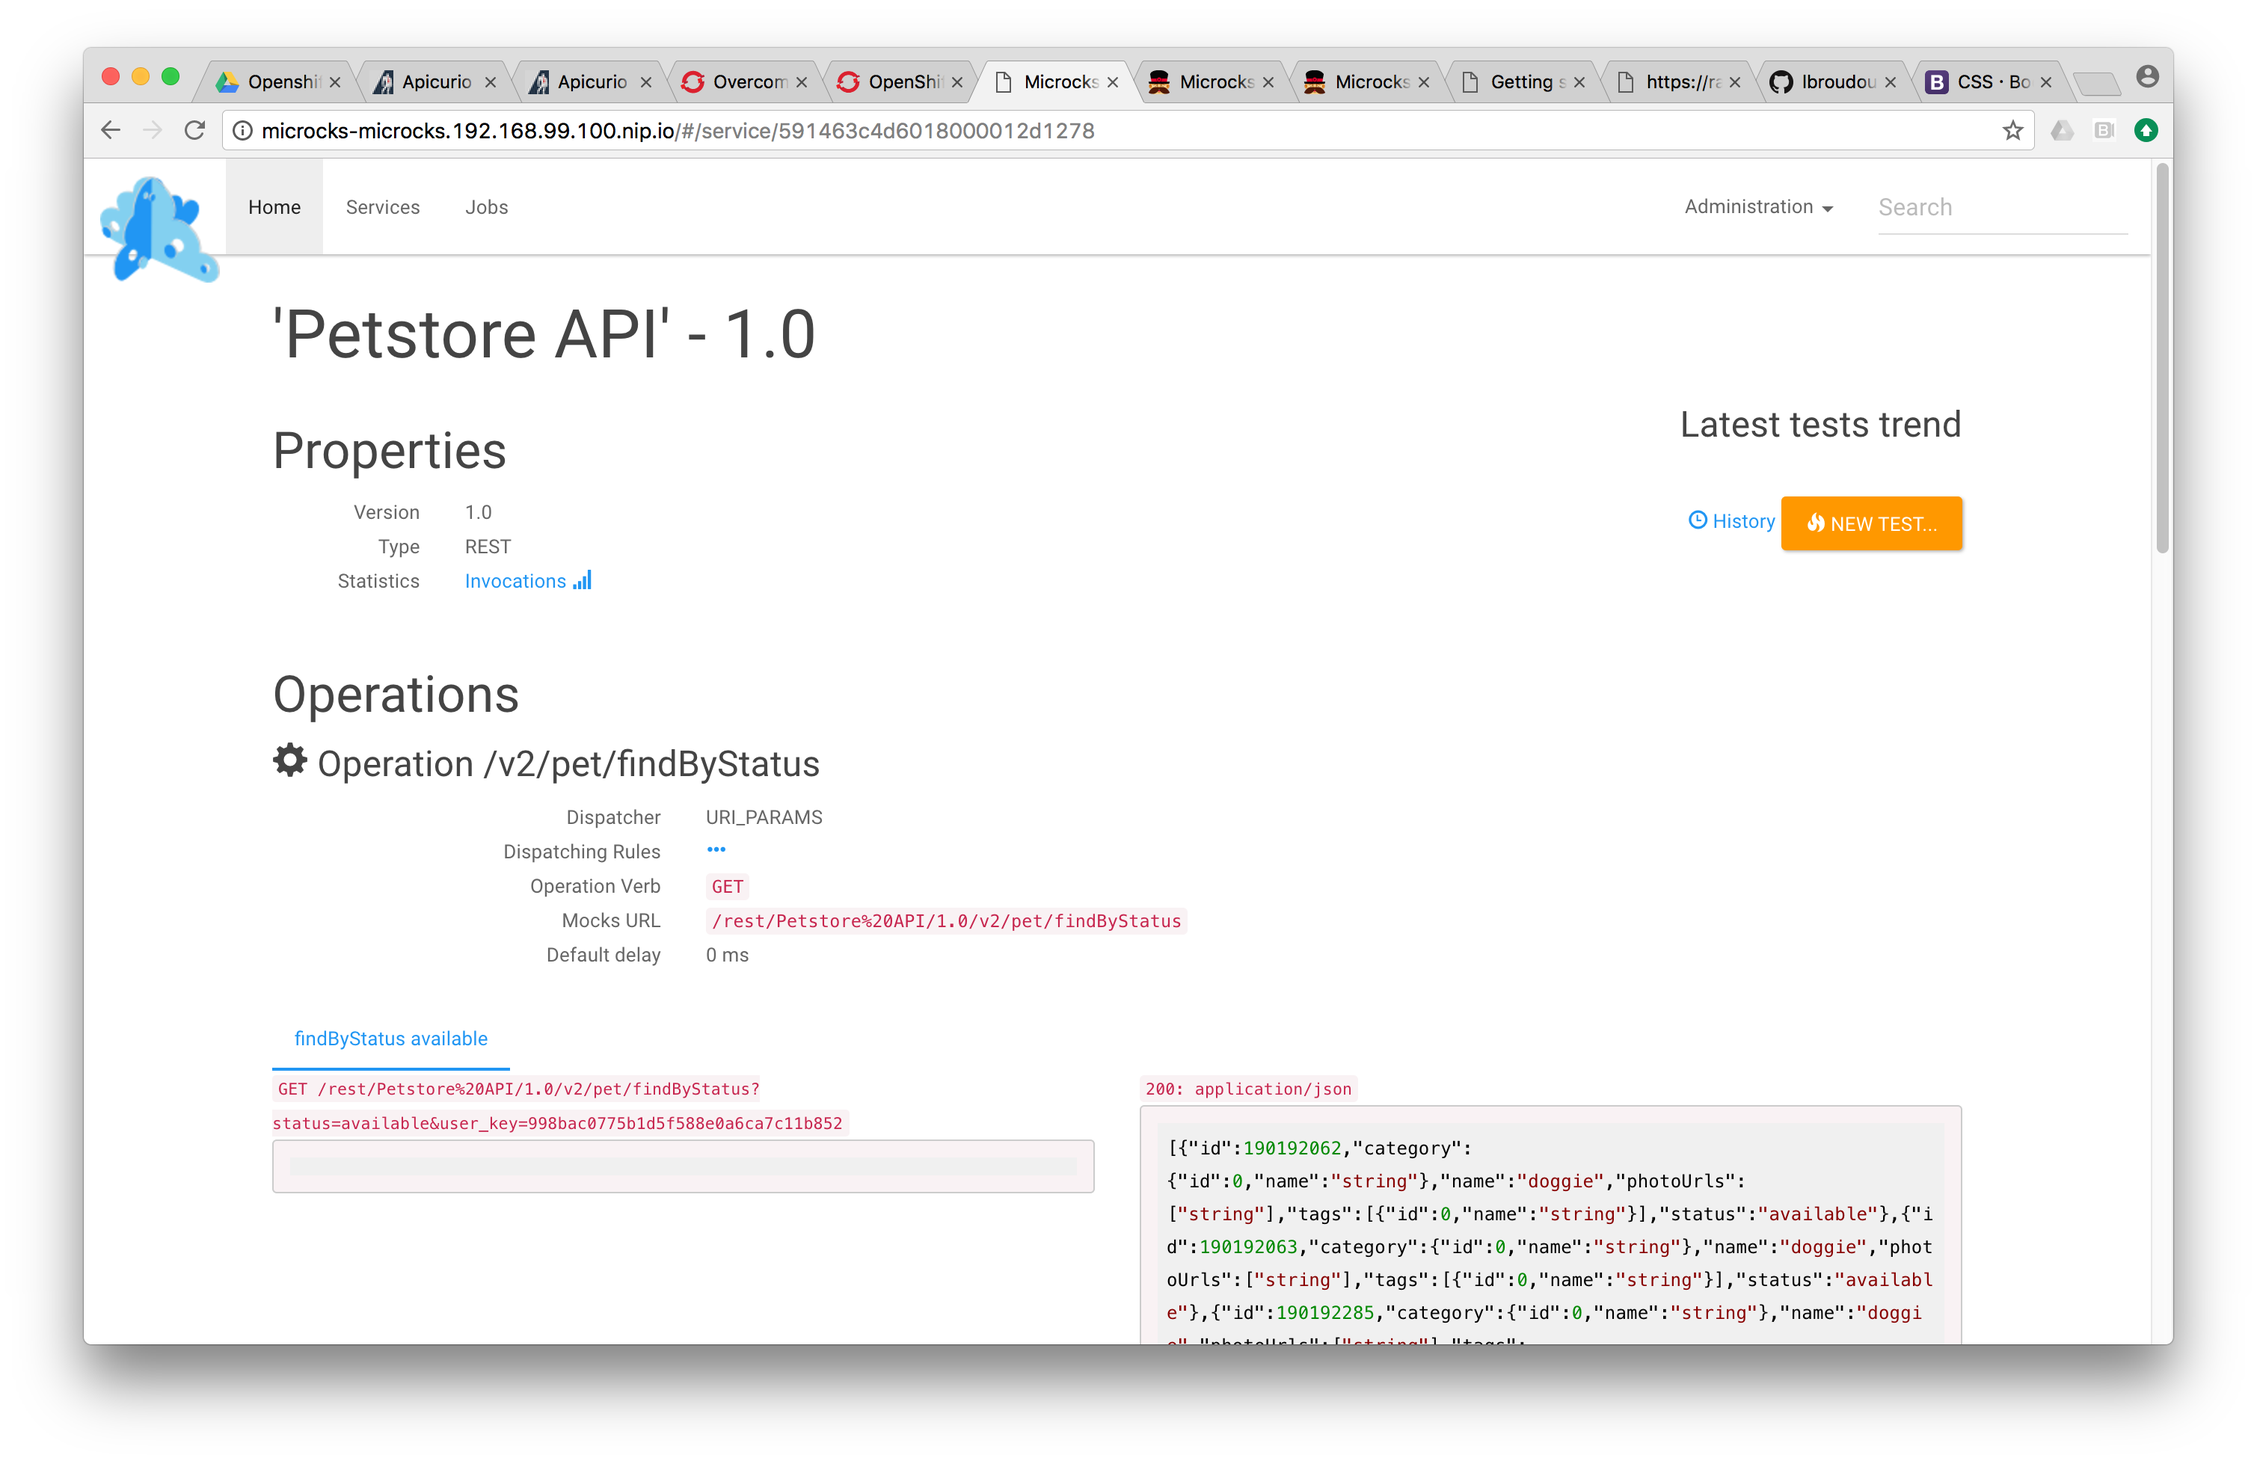
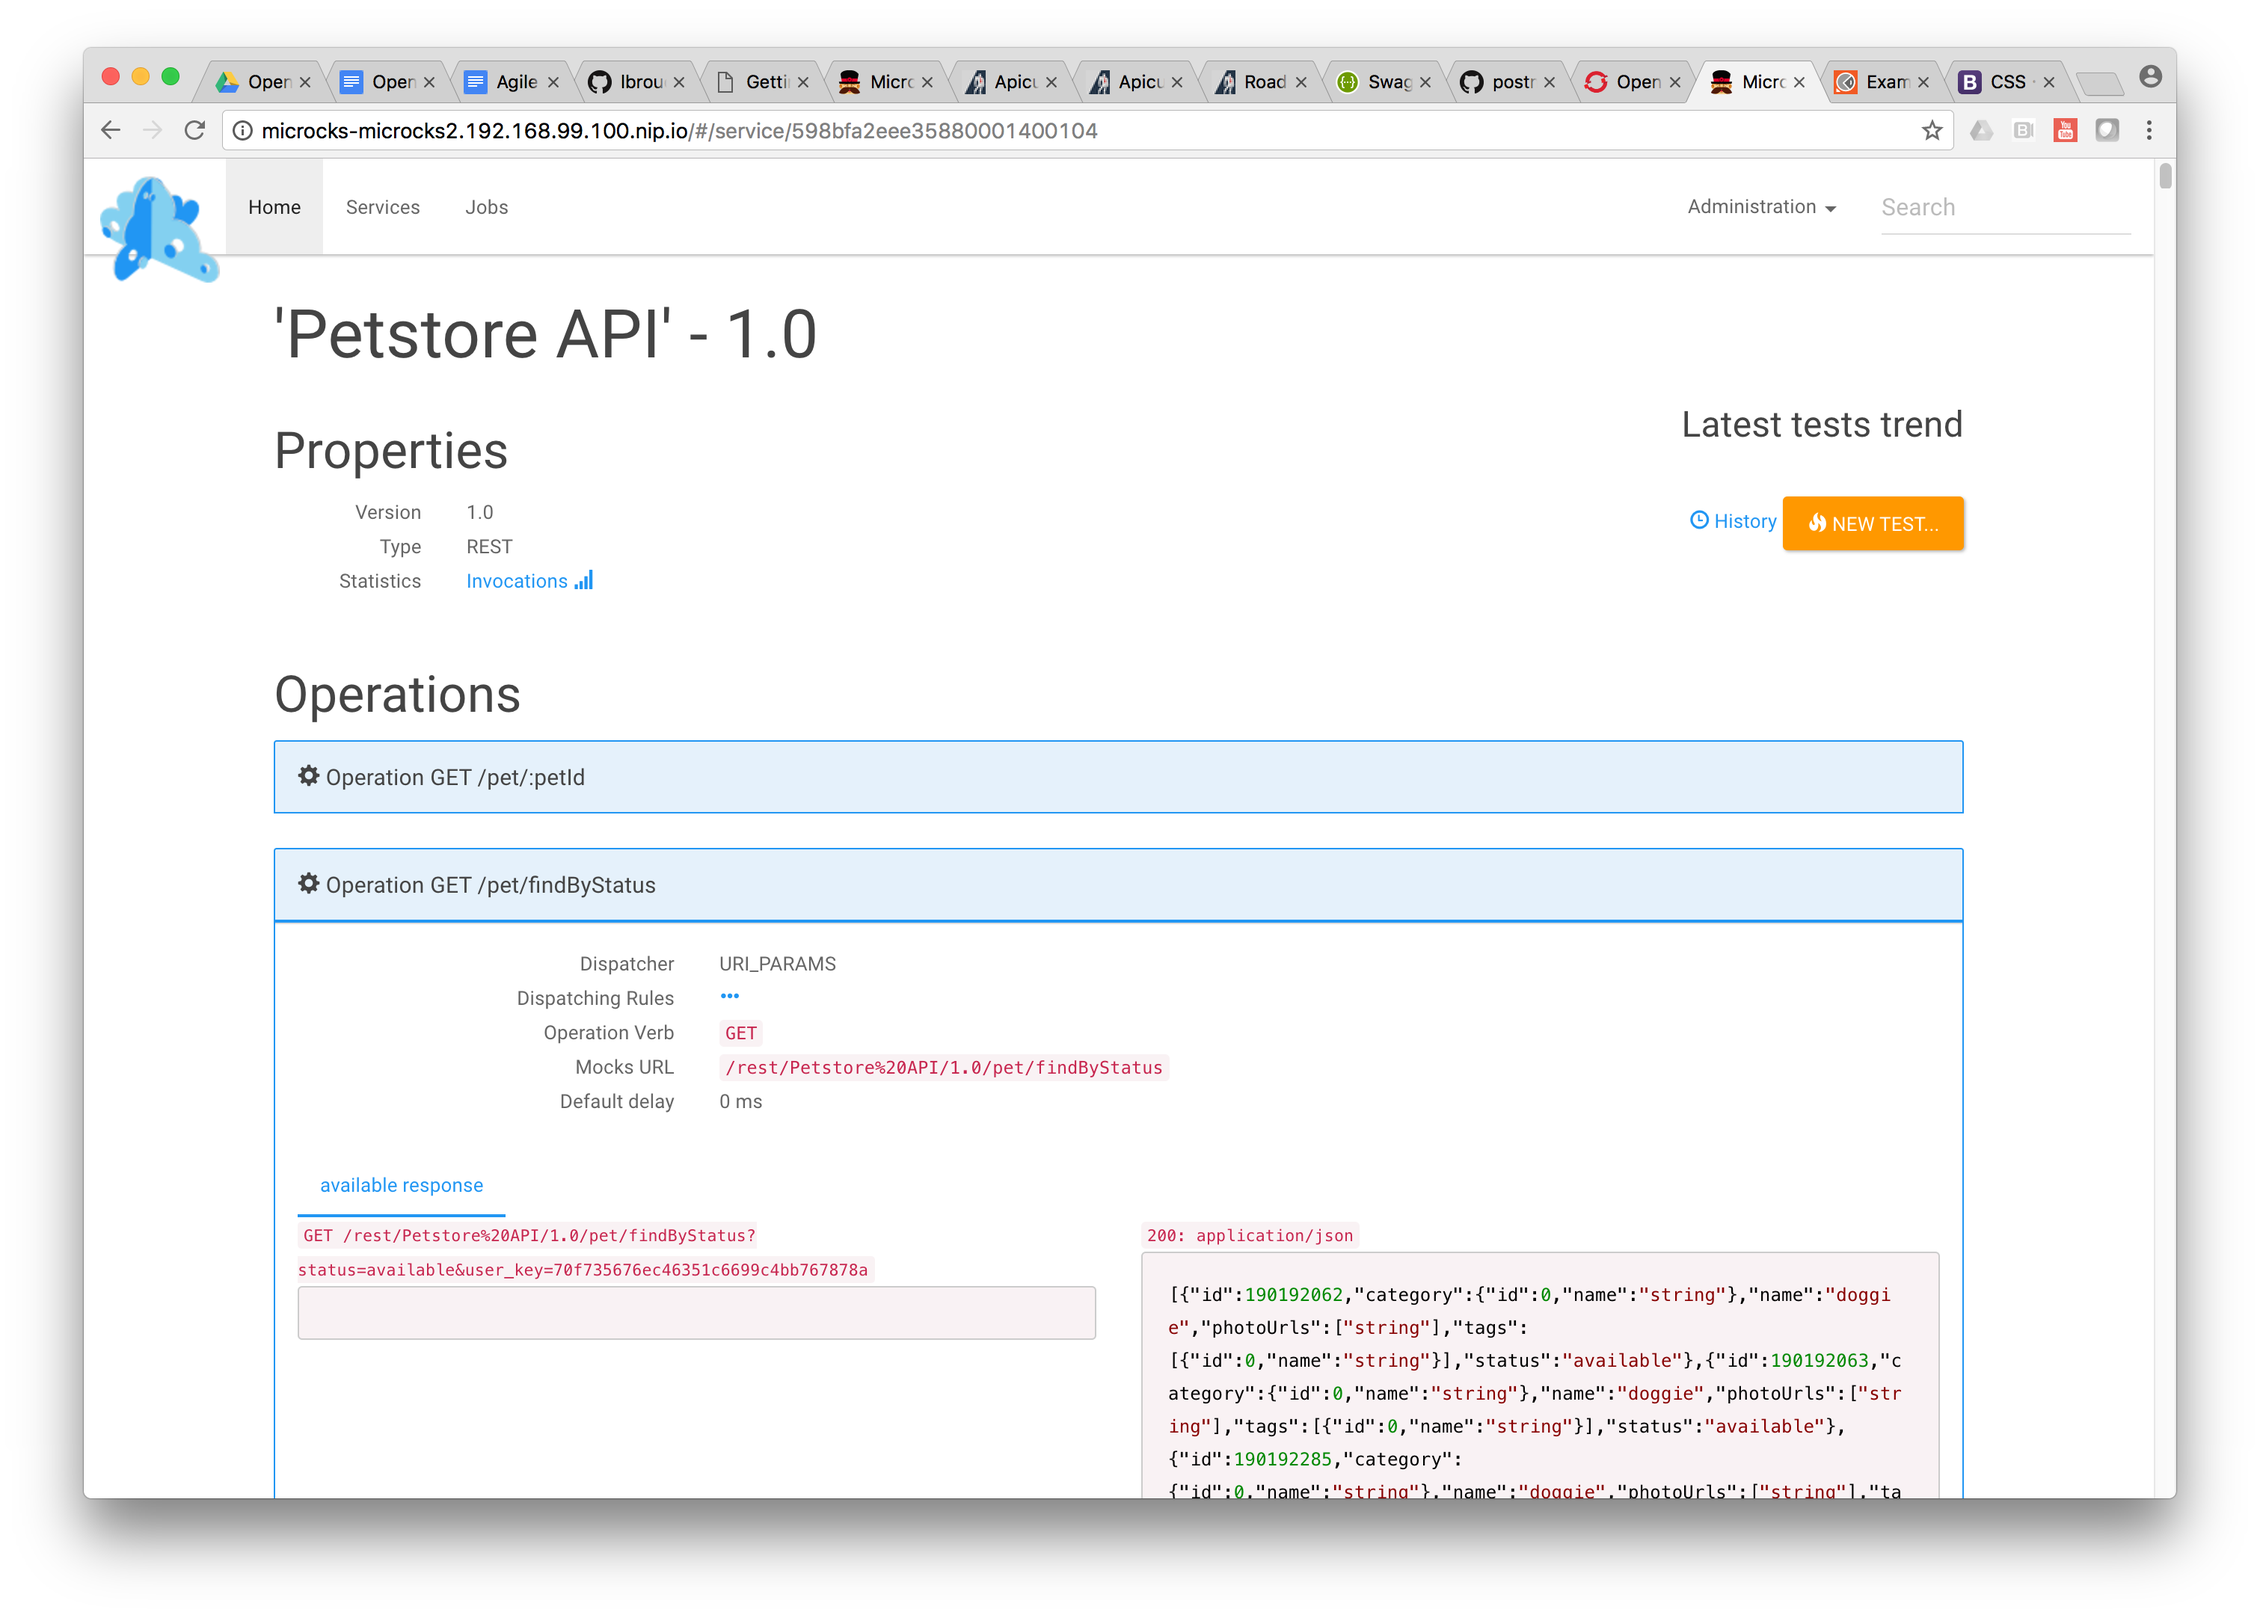
Update documentation on samples import

diff --git a/using/index.md b/using/index.md
@@ -106,7 +106,7 @@ CONTAINER ID        IMAGE                                       COMMAND         
 			<img src="../assets/images/sample-details.png" class="img-responsive"/>
 			<p>
 				Using this URL, you can call the exposed mock for <b>Petstore API</b> using the following curl command :<br/><br/>
-				<code>curl "http://microcks-microcks.192.168.99.100.nip.io/rest/Petstore%20API/1.0/v2/pet/findByStatus?status=available&user_key=998bac0775b1d5f588e0a6ca7c11b852"</code><br/><br/>
+				<code>curl "http://microcks-microcks.192.168.99.100.nip.io/rest/Petstore%20API/1.0/pet/findByStatus?status=available&user_key=70f735676ec46351c6699c4bb767878a"</code><br/><br/>
 
 				And you should receive the following response :<br/><br/>
 				<code>[{"id":190192062,"category":{"id":0,"name":"string"},"name":"doggie","photoUrls":["string"],"tags":[{"id":0,"name":"string"}],"status":"available"},{"id":190192063,"category":{"id":0,"name":"string"},"name":"doggie","photoUrls":["string"],"tags":[{"id":0,"name":"string"}],"status":"available"},{"id":190192285,"category":{"id":0,"name":"string"},"name":"doggie","photoUrls":["string"],"tags":[{"id":0,"name":"string"}],"status":"available"},{"id":190192654,"category":{"id":0,"name":"string"},"name":"doggie","photoUrls":["string"],"tags":[{"id":0,"name":"string"}],"status":"available"},{"id":190192671,"category":{"id":0,"name":"string"},"name":"doggie","photoUrls":["string"],"tags":[{"id":0,"name":"string"}],"status":"available"},{"id":190192727,"category":{"id":0,"name":"string"},"name":"doggie","photoUrls":["string"],"tags":[{"id":0,"name":"string"}],"status":"available"},{"id":190192736,"category":{"id":0,"name":"string"},"name":"doggie","photoUrls":["string"],"tags":[{"id":0,"name":"string"}],"status":"available"},{"id":190192768,"category":{"id":0,"name":"string"},"name":"doggie","photoUrls":["string"],"tags":[{"id":0,"name":"string"}],"status":"available"},{"id":190192878,"category":{"id":0,"name":"string"},"name":"doggie","photoUrls":["string"],"tags":[{"id":0,"name":"string"}],"status":"available"},{"id":190192907,"category":{"id":0,"name":"string"},"name":"doggie","photoUrls":["string"],"tags":[{"id":0,"name":"string"}],"status":"available"},{"id":190193000,"category":{"id":0,"name":"string"},"name":"doggie","photoUrls":["string"],"tags":[{"id":0,"name":"string"}],"status":"available"},{"id":-98125093,"category":{"id":-517488397,"name":"EJvNbK"},"name":"LuEfMZATrHz","photoUrls":["XCXOVVkaxa","gNwYqHEmC","nvCvphDeuqztysUBNed","W","vmrxRIViyXqumolLIeoB","JRqHVxk","tCUGbegVHoXajm","UiHppQn"],"tags":[{"id":727599428,"name":"RemggEDzxPljbrlktdWf"},{"id":1987753751,"name":"zWqdKAGHMmhPPlomljaNtuvm"},{"id":1251632392,"name":"BAgtgtKOxZGdsS"},{"id":-1813025208,"name":"OkKxtfAkCMEICbbQDVPi"},{"id":-730110346,"name":"WshDF"},{"id":2100951153,"name":"yxUFSknQEleIAQCoocl"},{"id":-2135188117,"name":"M"},{"id":1352243140,"name":"koKHsjysHXW"},{"id":1696778814,"name":"KaihiyarcZkIzkkquWPZ"},{"id":659492963,"name":"xqIzulcBPzWMyUpQwQK"},{"id":-2118372841,"name":"naYFGuHmqDqOpfHH"}],"status":"available"},{"id":8739826599258110549,"category":{"id":0,"name":"string"},"name":"doggie","photoUrls":["string"],"tags":[{"id":0,"name":"string"}],"status":"available"}]%</code><br/>
